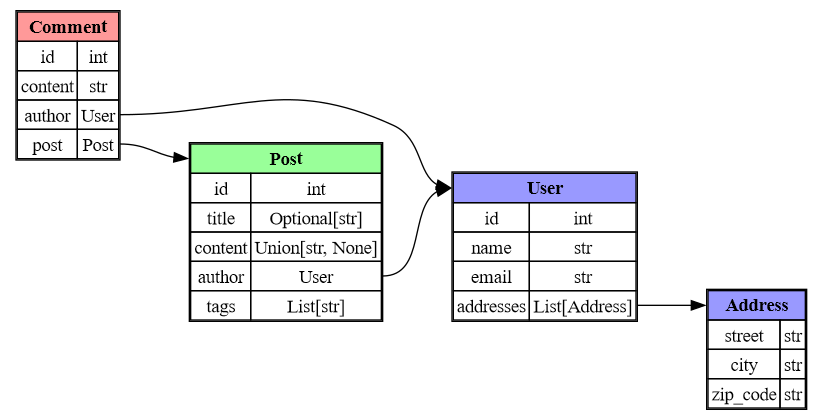
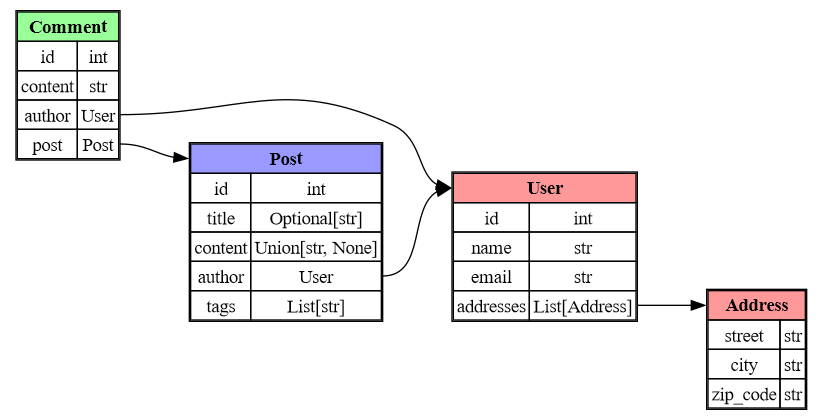
recursive import schemas

diff --git a/extract_schemas.py b/extract_schemas.py
@@ -1,62 +1,43 @@
 import ast
+import importlib.util
 import os
 import re
+import sys
+from typing import Dict, List, Set, Tuple
 
 import pygraphviz as pgv
 
+# Define built-in types to exclude
 BUILTIN_TYPES = {
-    "int",
-    "str",
-    "float",
-    "bool",
-    "list",
-    "dict",
-    "set",
-    "tuple",
-    "None",
-    "Any",
-    "Optional",
-    "Union",
-    "Callable",
-    "Type",
-    "Iterable",
-    "Iterator",
-    "Sequence",
-    "Mapping",
-    "ByteString",
-    "Bytes",
-    "Text",
-    "Complex",
-    "Number",
-    # Add other types you want to exclude
+    'int', 'str', 'float', 'bool', 'list', 'dict', 'set', 'tuple', 'None',
+    'Any', 'Optional', 'Union', 'Callable', 'Type', 'Iterable', 'Iterator',
+    'Sequence', 'Mapping', 'ByteString', 'Bytes', 'Text', 'Complex', 'Number',
+    'object'
 }
 
-
-def get_python_files(folder_path):
+def get_python_files(folder_path: str) -> List[str]:
     python_files = []
     for root, dirs, files in os.walk(folder_path):
         for file in files:
-            if file.endswith(".py"):
+            if file.endswith('.py'):
                 python_files.append(os.path.join(root, file))
     return python_files
 
-
-def parse_classes(file_path):
-    with open(file_path, "r", encoding="utf-8") as file:
+def parse_classes(file_path: str) -> List[ast.ClassDef]:
+    with open(file_path, 'r', encoding='utf-8') as file:
         file_content = file.read()
     tree = ast.parse(file_content, filename=file_path)
     classes = [node for node in ast.walk(tree) if isinstance(node, ast.ClassDef)]
     return classes
 
-
-def extract_fields(cls_node):
+def extract_fields(cls_node: ast.ClassDef) -> Dict[str, str]:
     fields = {}
     # Check for Pydantic BaseModel inheritance
     is_pydantic = False
     for base in cls_node.bases:
-        if isinstance(base, ast.Name) and base.id == "BaseModel":
+        if isinstance(base, ast.Name) and base.id == 'BaseModel':
             is_pydantic = True
-        elif isinstance(base, ast.Attribute) and base.attr == "BaseModel":
+        elif isinstance(base, ast.Attribute) and base.attr == 'BaseModel':
             is_pydantic = True
 
     if is_pydantic:
@@ -69,15 +50,11 @@ def extract_fields(cls_node):
     else:
         # Extract fields from __init__ method or class attributes
         for body_item in cls_node.body:
-            if isinstance(body_item, ast.FunctionDef) and body_item.name == "__init__":
+            if isinstance(body_item, ast.FunctionDef) and body_item.name == '__init__':
                 for stmt in body_item.body:
                     if isinstance(stmt, ast.Assign):
                         for target in stmt.targets:
-                            if (
-                                isinstance(target, ast.Attribute)
-                                and isinstance(target.value, ast.Name)
-                                and target.value.id == "self"
-                            ):
+                            if isinstance(target, ast.Attribute) and isinstance(target.value, ast.Name) and target.value.id == 'self':
                                 field_name = target.attr
                                 if isinstance(stmt.value, ast.Name):
                                     field_type = stmt.value.id
@@ -96,93 +73,147 @@ def extract_fields(cls_node):
                         fields[field_name] = field_type
     return fields
 
-
-def get_base_type(field_type):
+def get_base_type(field_type: str) -> str:
     if not field_type:
         return None
     # Remove any module prefixes
-    field_type = field_type.split(".")[-1]
+    field_type = field_type.split('.')[-1]
     # Remove typing prefixes
-    field_type = field_type.replace("typing.", "")
+    field_type = field_type.replace('typing.', '')
     # Handle common generic types
-    match = re.match(r"^(?:List|Optional|Dict|Set|Tuple)\[(.+)\]$", field_type)
+    match = re.match(r'^(?:List|Optional|Dict|Set|Tuple)\[(.+)\]$', field_type)
     if match:
         field_type = match.group(1)
     # Handle Union types
-    elif field_type.startswith("Union["):
-        types = field_type[6:-1].split(",")
+    elif field_type.startswith('Union['):
+        types = field_type[6:-1].split(',')
         # Use the first type in the Union
         field_type = types[0].strip()
     # Remove any nested generics
-    field_type = re.sub(r"\[.*\]", "", field_type)
+    field_type = re.sub(r'\[.*\]', '', field_type)
     return field_type.strip()
 
+def parse_imports(file_path: str) -> Dict[str, str]:
+    import_map = {}
+    with open(file_path, 'r', encoding='utf-8') as file:
+        file_content = file.read()
+    tree = ast.parse(file_content, filename=file_path)
+    for node in ast.walk(tree):
+        if isinstance(node, ast.Import):
+            for alias in node.names:
+                name = alias.asname if alias.asname else alias.name
+                import_map[name] = alias.name
+        elif isinstance(node, ast.ImportFrom):
+            module = node.module
+            for alias in node.names:
+                name = alias.asname if alias.asname else alias.name
+                full_name = f"{module}.{alias.name}" if module else alias.name
+                import_map[name] = full_name
+    return import_map
 
-def build_class_map(folder_path):
-    python_files = get_python_files(folder_path)
+def find_module_file(module_name: str) -> str:
+    try:
+        spec = importlib.util.find_spec(module_name)
+        if spec and spec.origin and spec.origin != 'built-in':
+            return spec.origin
+    except Exception as e:
+        print(f"Could not find module {module_name}: {e}")
+    return None
+
+def build_class_map(folder_path: str) -> Tuple[Dict[str, Dict], Dict[str, str]]:
     class_map = {}
     file_class_map = {}
-    local_class_names = set()
-    for file in python_files:
-        classes = parse_classes(file)
+    visited_files = set()
+    visited_classes = set()
+    import_maps = {}
+
+    def parse_file(file_path: str):
+        if file_path in visited_files or not os.path.isfile(file_path):
+            return
+        visited_files.add(file_path)
+        import_map = parse_imports(file_path)
+        import_maps[file_path] = import_map
+        classes = parse_classes(file_path)
         for cls in classes:
             class_name = cls.name
-            local_class_names.add(class_name)
+            if class_name in visited_classes:
+                continue
+            visited_classes.add(class_name)
             fields = extract_fields(cls)
-            class_map[class_name] = {"fields": fields, "file": file, "local": True}
-            file_class_map[class_name] = file
+            class_map[class_name] = {
+                'fields': fields,
+                'file': file_path,
+                'local': True
+            }
+            file_class_map[class_name] = file_path
 
-    # Identify imported classes
-    imported_class_names = set()
-    for class_info in class_map.values():
-        fields = class_info["fields"]
-        for field_type in fields.values():
-            base_type = get_base_type(field_type)
-            if (
-                base_type
-                and base_type not in local_class_names
-                and base_type not in BUILTIN_TYPES
-            ):
-                imported_class_names.add(base_type)
+            # Parse field types recursively
+            for field_type in fields.values():
+                base_type = get_base_type(field_type)
+                if base_type and base_type not in BUILTIN_TYPES and base_type not in class_map:
+                    parse_class_by_name(base_type, import_map)
 
-    # Add imported classes
-    for imported_class_name in imported_class_names:
-        class_map[imported_class_name] = {"fields": {}, "file": None, "local": False}
+    def parse_class_by_name(class_name: str, import_map: Dict[str, str]):
+        module_name = import_map.get(class_name)
+        if not module_name:
+            # Try to resolve module name from sys.modules
+            module_name = sys.modules.get(class_name)
+            if module_name:
+                module_name = module_name.__name__
+        if module_name:
+            module_file = find_module_file(module_name)
+            if module_file:
+                parse_file(module_file)
+            else:
+                # Could not find module file; add as external
+                if class_name not in class_map:
+                    class_map[class_name] = {
+                        'fields': {},
+                        'file': None,
+                        'local': False
+                    }
+        else:
+            # Module name could not be resolved; add as external
+            if class_name not in class_map:
+                class_map[class_name] = {
+                    'fields': {},
+                    'file': None,
+                    'local': False
+                }
 
+    def parse_folder(folder: str):
+        python_files = get_python_files(folder)
+        for file in python_files:
+            parse_file(file)
+
+    # Start parsing from the initial folder
+    parse_folder(folder_path)
     return class_map, file_class_map
 
+def visualize_schemas(class_map: Dict[str, Dict], file_class_map: Dict[str, str]):
+    def sanitize_name(name: str) -> str:
+        return re.sub(r'[^a-zA-Z0-9_]', '_', name)
 
-def visualize_schemas(class_map, file_class_map):
-    def sanitize_name(name):
-        return re.sub(r"[^a-zA-Z0-9_]", "_", name)
-
-    G = pgv.AGraph(directed=True, strict=False, rankdir="LR")
+    G = pgv.AGraph(directed=True, strict=False, rankdir='LR')
     file_colors = {}
-    color_palette = [
-        "#FF9999",
-        "#99FF99",
-        "#9999FF",
-        "#FFCC99",
-        "#CC99FF",
-        "#FF99CC",
-        "#99CCFF",
-        "#CCCCCC",
-    ]
+    color_palette = ['#FF9999', '#99FF99', '#9999FF', '#FFCC99',
+                     '#CC99FF', '#FF99CC', '#99CCFF', '#CCCCCC']
     color_index = 0
 
     # Assign colors to files
-    for file in set(file_class_map.values()):
+    files = set([info['file'] for info in class_map.values() if info['file']])
+    for file in files:
         file_colors[file] = color_palette[color_index % len(color_palette)]
         color_index += 1
 
     # Create nodes
     for class_name, class_info in class_map.items():
         sanitized_class_name = sanitize_name(class_name)
-        fields = class_info["fields"]
-        local = class_info.get("local", False)
+        fields = class_info['fields']
+        local = class_info.get('local', False)
         if local:
-            file = class_info["file"]
-            color = file_colors[file]
+            file = class_info['file']
+            color = file_colors.get(file, "#CCCCCC")
             # Create a label for the node
             label = f"""<<TABLE BORDER="1" CELLBORDER="1" CELLSPACING="0">
             <TR><TD PORT="class_header" BGCOLOR="{color}" COLSPAN="2"><B>{class_name}</B></TD></TR>"""
@@ -193,18 +224,16 @@ def visualize_schemas(class_map, file_class_map):
                 <TD PORT="{sanitized_field_name}_type">{field_type}</TD>
                 </TR>"""
             label += "</TABLE>>"
-            G.add_node(sanitized_class_name, shape="plaintext", label=label)
+            G.add_node(sanitized_class_name, shape='plaintext', label=label)
         else:
             # Create a placeholder node for imported classes
-            G.add_node(
-                sanitized_class_name, shape="box", style="dashed", label=class_name
-            )
+            G.add_node(sanitized_class_name, shape='box', style='dashed', label=class_name)
         print(f"Added node: {sanitized_class_name}")
 
     # Create edges
     for class_name, class_info in class_map.items():
         sanitized_class_name = sanitize_name(class_name)
-        fields = class_info["fields"]
+        fields = class_info['fields']
         for field_name, field_type in fields.items():
             base_type = get_base_type(field_type)
             if base_type and base_type not in BUILTIN_TYPES:
@@ -212,44 +241,42 @@ def visualize_schemas(class_map, file_class_map):
                 sanitized_field_name = sanitize_name(field_name)
                 if sanitized_base_type in G.nodes():
                     # Use tailport and headport if source node is local and has ports
-                    if class_info.get("local", False):
+                    if class_info.get('local', False):
                         G.add_edge(
                             sanitized_class_name,
                             sanitized_base_type,
                             tailport=f"{sanitized_field_name}_type",
-                            headport=(
-                                "class_header"
-                                if class_map[base_type].get("local", False)
-                                else ""
-                            ),
-                            arrowhead="normal",
+                            headport="class_header" if class_map[base_type].get('local', False) else "",
+                            arrowhead='normal'
                         )
                     else:
                         # Source node is imported
                         G.add_edge(
                             sanitized_class_name,
                             sanitized_base_type,
-                            arrowhead="normal",
+                            arrowhead='normal'
                         )
-                    print(
-                        f"Adding edge from '{sanitized_class_name}:{sanitized_field_name}_type' to '{sanitized_base_type}'"
-                    )
+                    print(f"Adding edge from '{sanitized_class_name}:{sanitized_field_name}_type' to '{sanitized_base_type}'")
                 else:
-                    print(
-                        f"Warning: Node '{sanitized_base_type}' does not exist in the graph."
-                    )
+                    print(f"Warning: Node '{sanitized_base_type}' does not exist in the graph.")
             else:
                 print(f"Skipping built-in type '{base_type}' or unresolved type.")
+
     # Render the graph
-    G.layout(prog="dot")
-    G.draw("schemas.png")
+    G.layout(prog='dot')
+    G.draw('schemas.png')
+    print("\nGraph Nodes:")
+    for node in G.nodes():
+        print(node)
 
+    print("\nGraph Edges:")
+    for edge in G.edges():
+        print(edge)
 
-def main(folder_path):
+def main(folder_path: str):
     class_map, file_class_map = build_class_map(folder_path)
     visualize_schemas(class_map, file_class_map)
 
-
-if __name__ == "__main__":
-    folder_path = "./schemas/"  # Replace with your folder path
+if __name__ == '__main__':
+    folder_path = './schemas/'  # Replace with your folder path
     main(folder_path)
